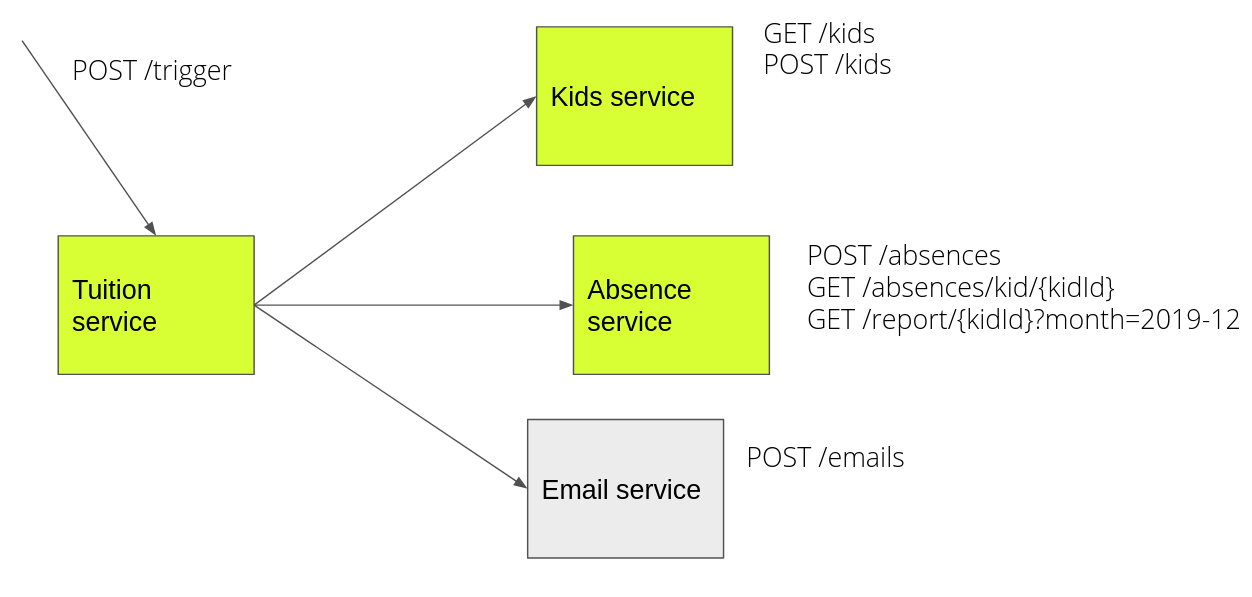
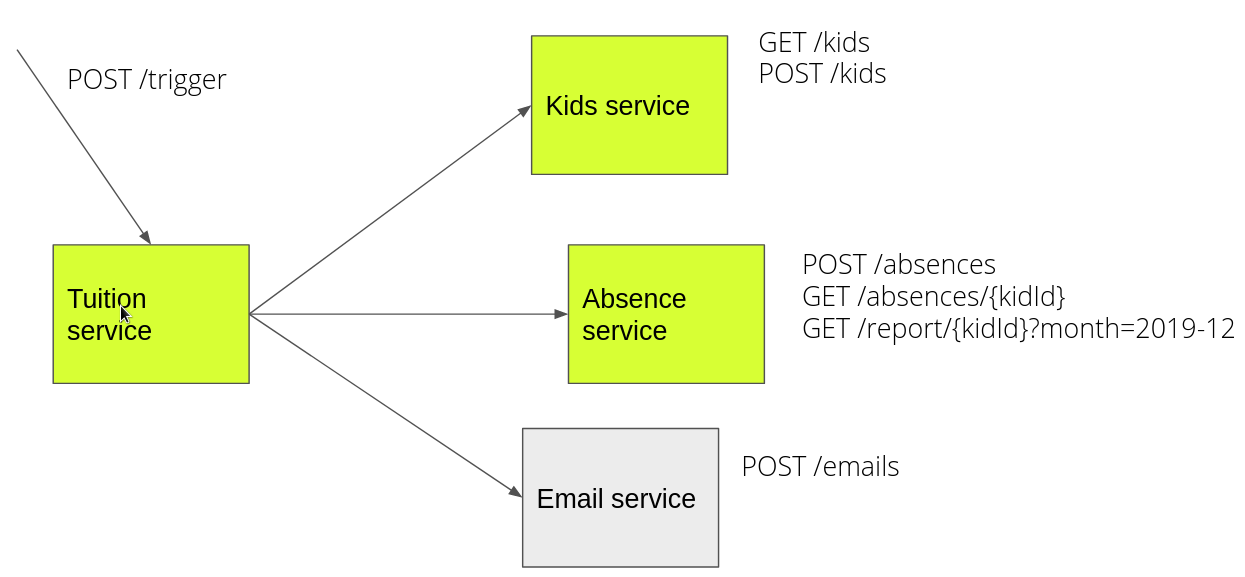
getting absences fixes

diff --git a/feeder/src/main/java/com/example/AbsenceClient.java b/feeder/src/main/java/com/example/AbsenceClient.java
@@ -19,7 +19,7 @@ import java.util.List;
 public interface AbsenceClient {
 
    @GET
-   @Path("/kid/{kidId}")
+   @Path("/{kidId}")
    List<Absence> getAbsences(@PathParam("kidId") Integer kidId);
 
    @POST

diff --git a/README.md b/README.md
@@ -125,7 +125,7 @@ Request:
 ```
 Response: status code `201`
 
-##### `POST /absences/kid/{kidId}`
+##### `GET /absences/{kidId}` 
 Response:
 ```
 [{
